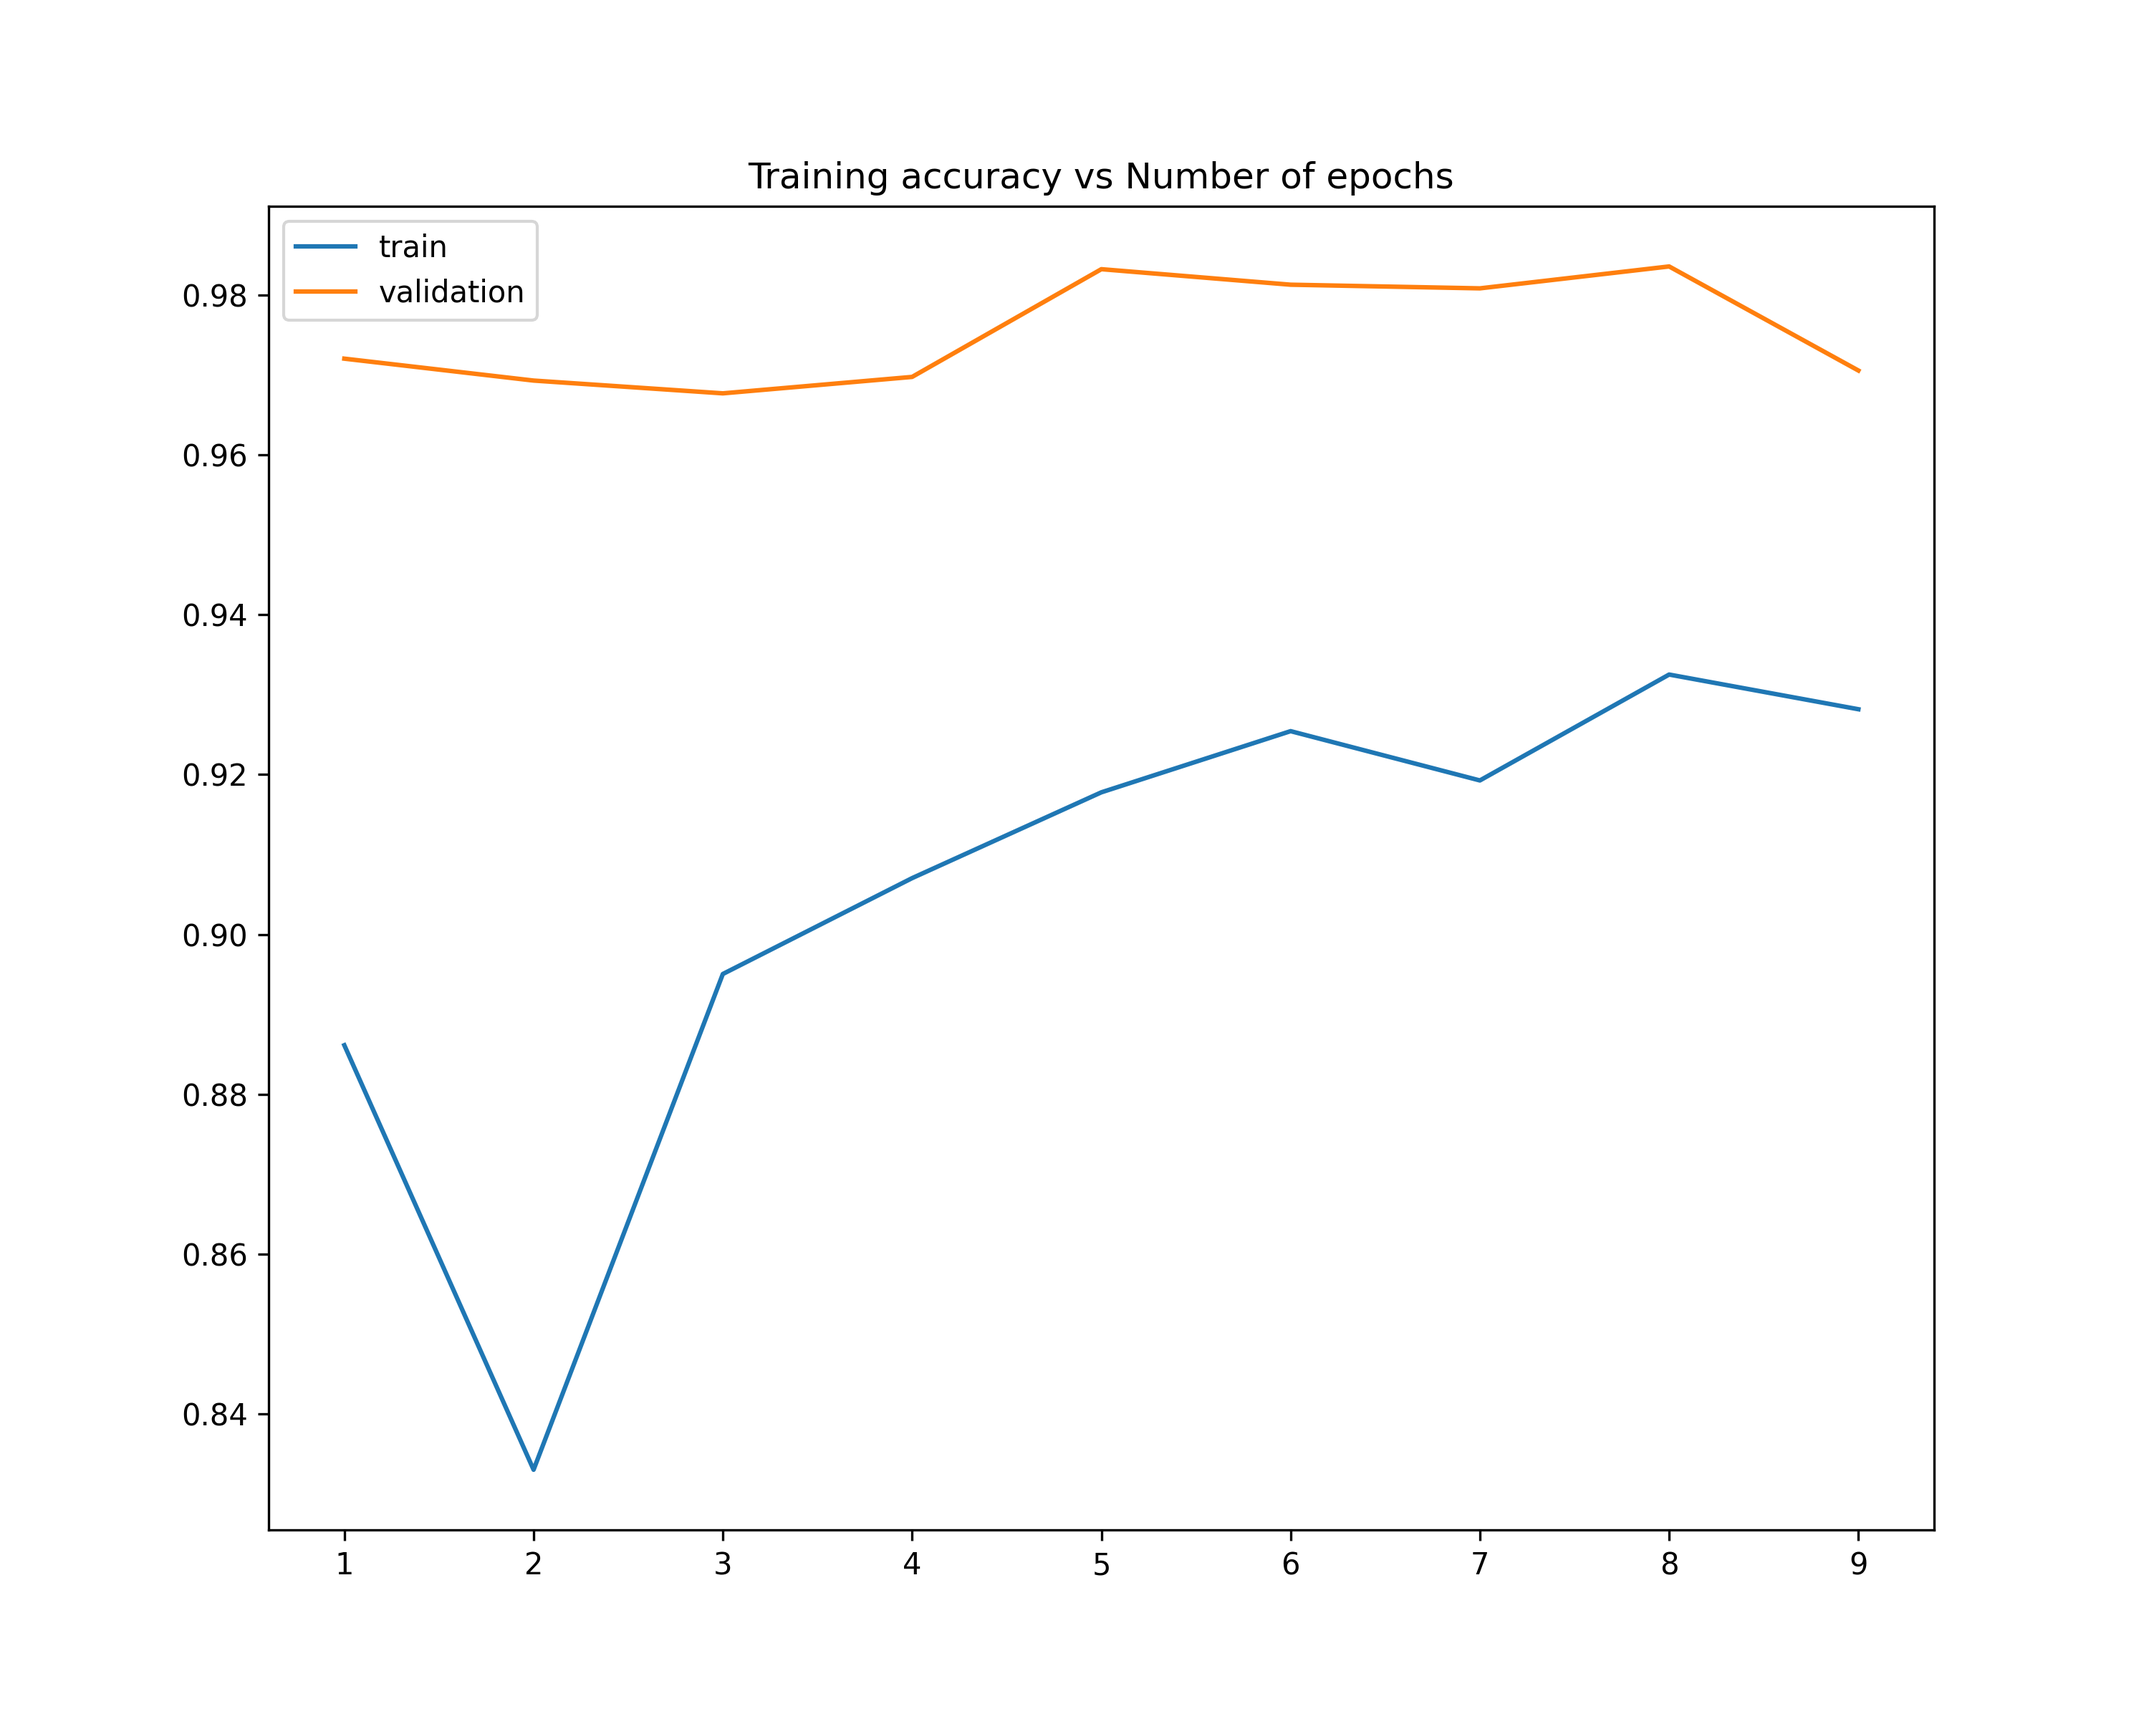
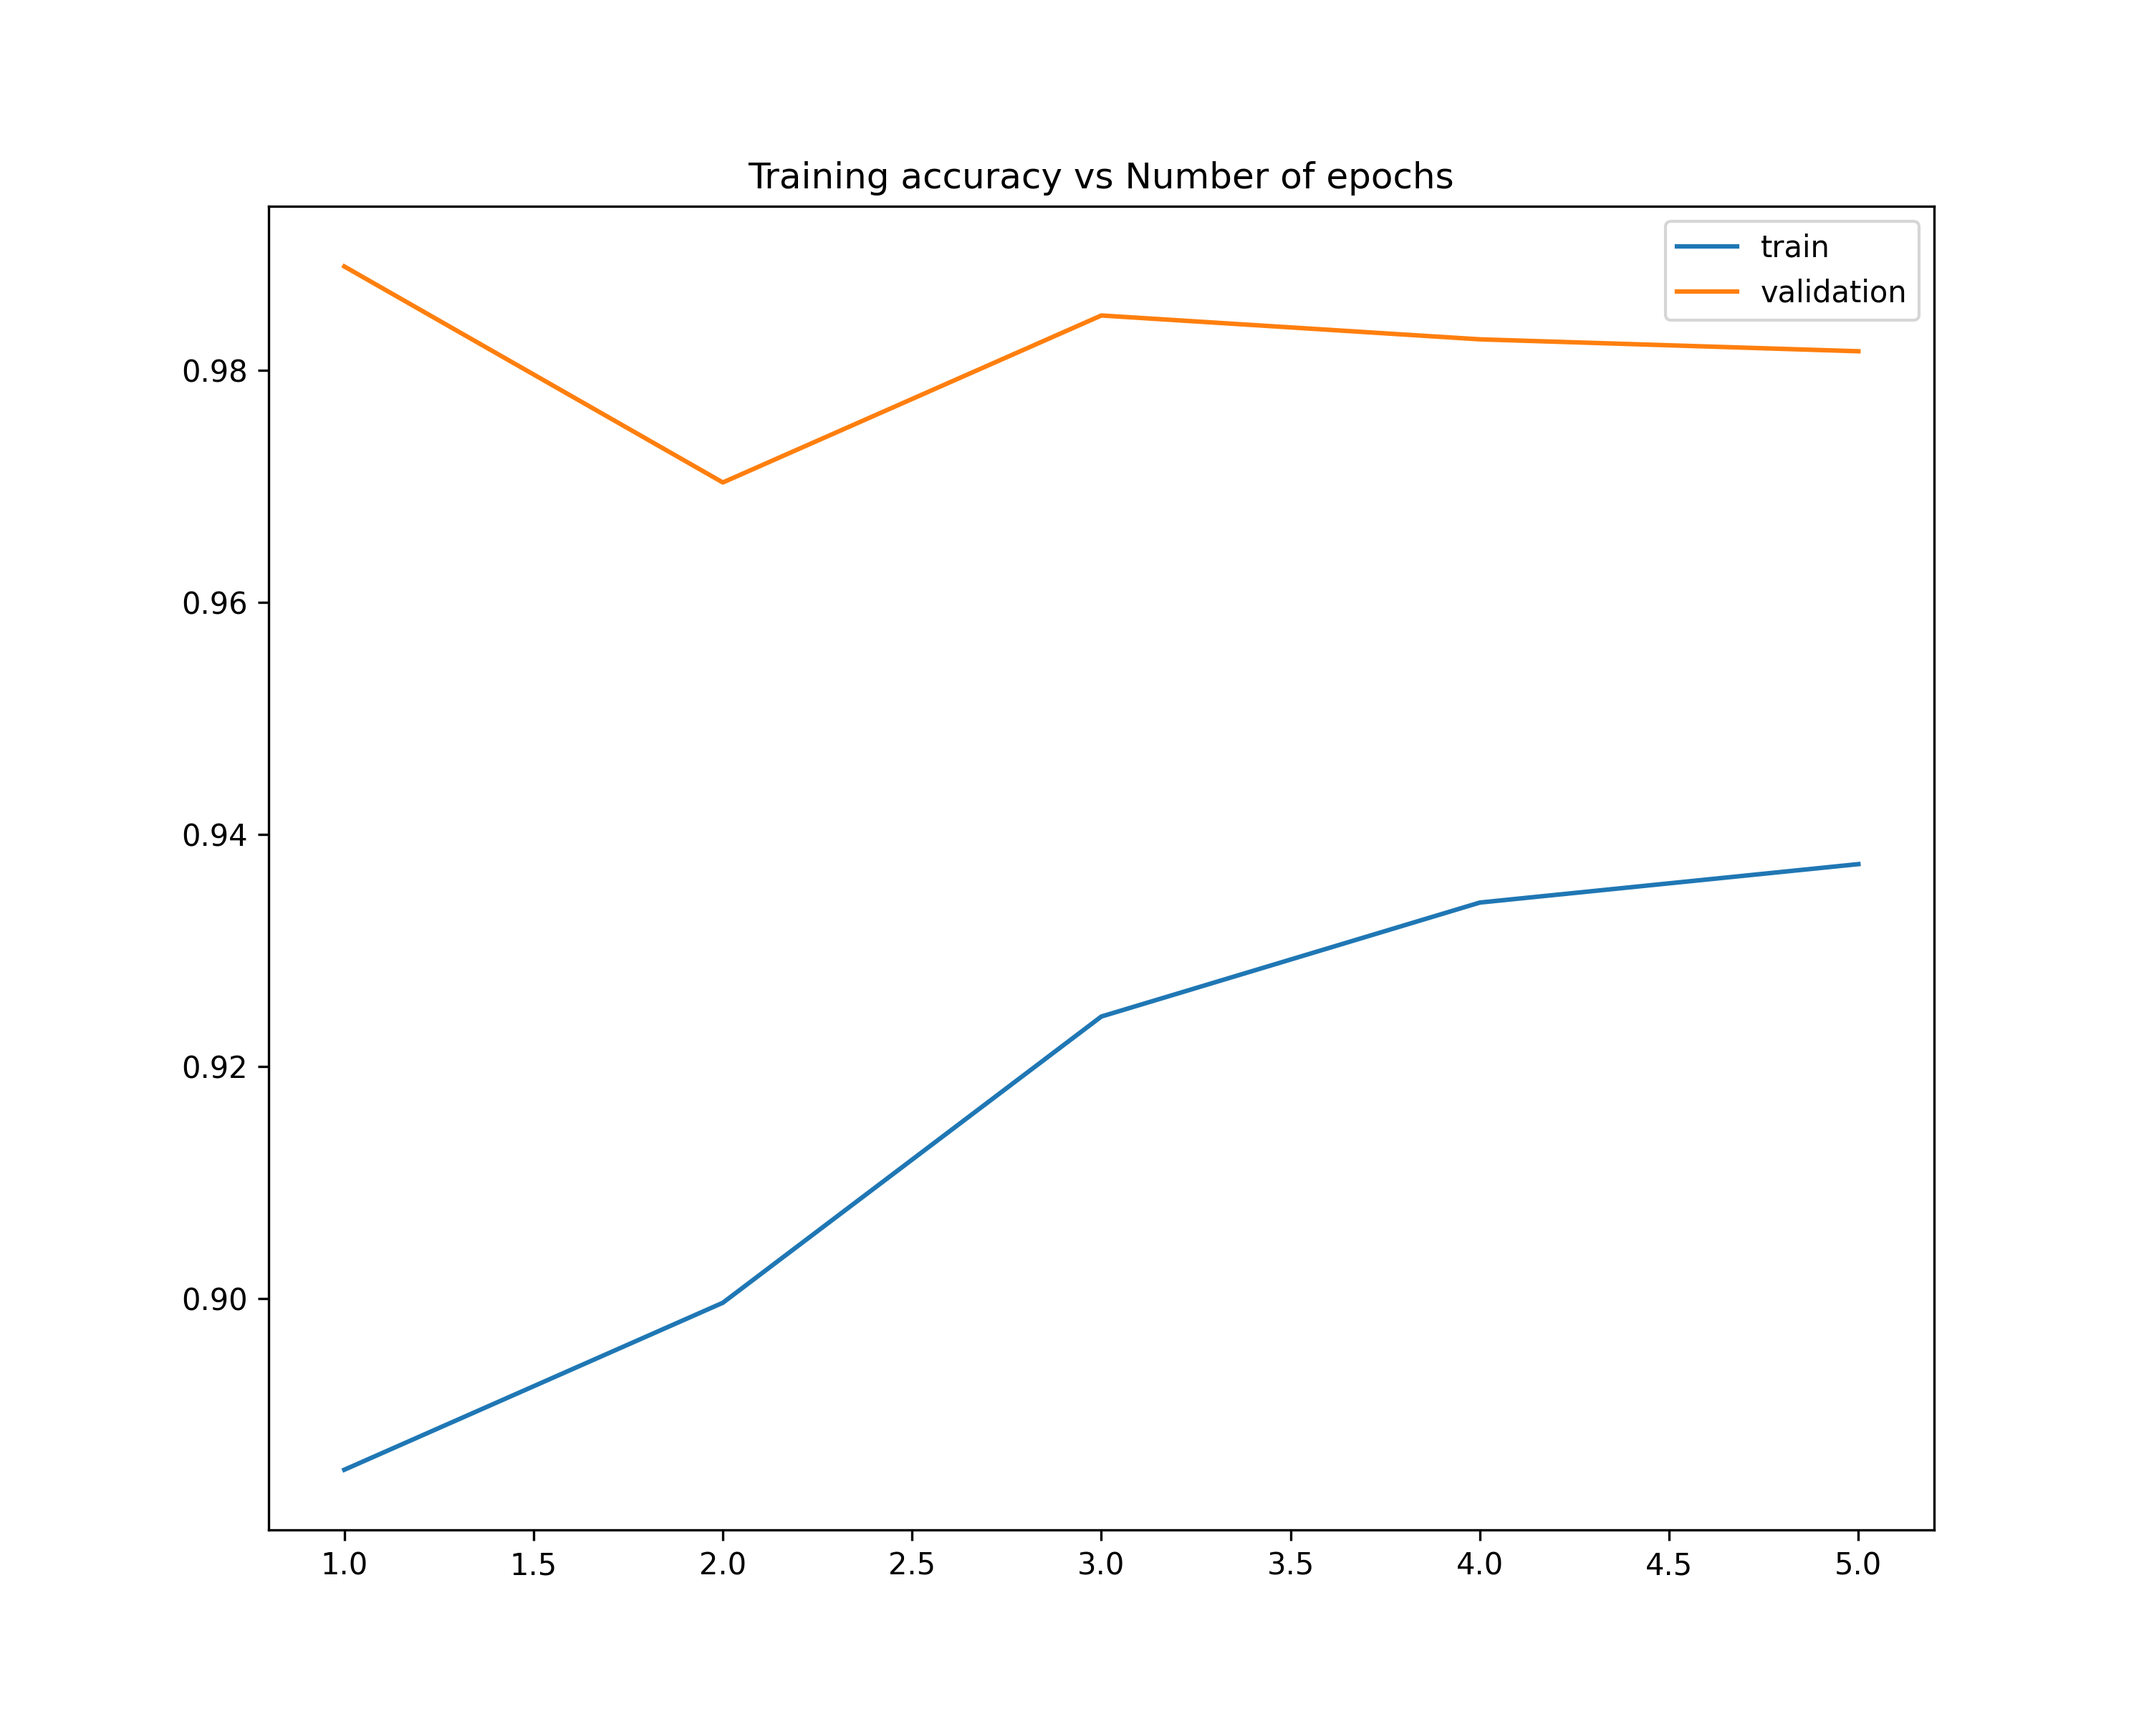
Made tanh

diff --git a/Assignment_2/test.py b/Assignment_2/test.py
@@ -9,7 +9,7 @@ from torch.utils.data import TensorDataset, DataLoader
 import torchvision.transforms as transforms
 from models import GoogLeNet_transfer,VGG_transfer,CNN
 
-input_size = 256
+input_size = 224
 device = torch.device("cuda" if torch.cuda.is_available() else "cpu")
 
 classes = ['cavallo', 'farfalla', 'elefante', 'gatto', 'gallina']
@@ -25,7 +25,6 @@ for i in classes:
     image_files.extend(glob.glob('data/resized_animal_10/' + i + '/*'))
     labels.extend([class_mapping[i]] *
                   len(glob.glob('data/resized_animal_10/' + i + '/*')))
-
 
 images_train, images_val, labels_train, labels_val = train_test_split(
     image_files, labels, train_size=0.8, stratify=labels)
@@ -54,15 +53,16 @@ test_animal_dataset = AnimalDataset(
     images_train, labels_train, transforms=data_transforms["val"])
 
 hidden_dim_1 = [2048]  
-hidden_dim_2 = [4096]
+hidden_dim_2 = [512]
 batch_sizes = [64]
-lrs = [3e-3]
+lrs = [3e-4]
 
 delta_loss = []
 ada_delta_loss = []
 adam_loss = []
 
 model_type="googlenet"
+
 for BATCH_SIZE in batch_sizes:
     for hid_dim1 in hidden_dim_1:
         for hid_dim2 in hidden_dim_2:
@@ -75,22 +75,13 @@ for BATCH_SIZE in batch_sizes:
 
 
 
-                model = CNN(5,64).to(device)
-                #model = GoogLeNet_transfer(5,hid_dim1,hid_dim2).to(device)
+                #model = CNN(5,32).to(device)
+                model = GoogLeNet_transfer(5,hid_dim1,hid_dim2).to(device)
+                #model = VGG_transfer(5,hid_dim1,hid_dim2).to(device)
                 optimizer = optim.Adam(model.parameters(), lr=lr)
 
                 loss_adam,acc_adam,epoch_adam = train_model(optimizer,criterion,model,train_dataloader,test_dataloader,MAX_EPOCHS=50,device=device,save_name=model_type)
 
-                try:
-                    print("\n \n Rule Adam",BATCH_SIZE,hid_dim1,hid_dim2,lr,loss_adam["val"][-1],acc_adam["val"][-1],len(acc_adam["val"]))
-                except:
-                    pass
-                
-                #plot_comparative(loss_delta,loss_ada_delta,loss_adam,epochs,lr,"train",loss_or_accuracy="loss")
-                #plot_comparative(loss_delta,loss_ada_delta,loss_adam,epochs,lr,"val",loss_or_accuracy="loss")
-    
-                # plot_confusion_matrix(lr,"model_delta","train")
-                # plot_confusion_matrix(lr,"model_ada_delta","train")
                 plot_confusion_matrix(lr,model_type,"train",train_dataloader,device,classes)
                 plot_confusion_matrix(lr,model_type,"test",test_dataloader,device,classes)
 
@@ -98,4 +89,10 @@ for BATCH_SIZE in batch_sizes:
                 plot_comparative(loss_adam,"loss",model_type)
                 plot_comparative(acc_adam,"accuracy",model_type)
 
-                plot_misclassified_examples("CNN",test_dataloader,device,classes)
+                #plot_misclassified_examples("CNN",test_dataloader,device,classes)
+
+                try:
+                    print("\n \n Rule Adam",BATCH_SIZE,hid_dim1,hid_dim2,lr,loss_adam["val"][-1],acc_adam["val"][-1],len(acc_adam["val"]))
+                except:
+                    pass
+                

diff --git a/Assignment_2/models.py b/Assignment_2/models.py
@@ -11,10 +11,10 @@ class MLFFNN(nn.Module):
         torch.manual_seed(3)
         # adding linear and non-linear hidden layers
         self.mlffnn = nn.Sequential(nn.Linear(INPUT_DIM, hidden_dim1),
-                                       nn.ReLU(),
+                                       nn.Tanh(),
                                        nn.Dropout(p=0.5),
                                        nn.Linear(hidden_dim1, hidden_dim2),
-                                       nn.ReLU(),
+                                       nn.Tanh(),
                                        nn.Dropout(p=0.5),
                                        nn.Linear(hidden_dim2, NUM_CLASSES))
         
@@ -32,24 +32,24 @@ class CNN(nn.Module):
         torch.manual_seed(3)
         self.conv1 = nn.Conv2d(in_channels=3, out_channels=4,
             kernel_size=(3, 3),stride=1)
-        self.relu1 = nn.ReLU()
+        self.tanh1 = nn.Tanh()
         self.meanpool1 = nn.AvgPool2d(kernel_size=(2, 2), stride=2)
         
         self.conv2 = nn.Conv2d(in_channels=4, out_channels=out_channels_2,
             kernel_size=(3, 3),stride=1)
-        self.relu2 = nn.ReLU()
+        self.tanh2 = nn.Tanh()
         self.meanpool2 = nn.AvgPool2d(kernel_size=(2, 2), stride=(2, 2))
-        # initialize first (and only) set of FC => RELU layers
+        # initialize first (and only) set of FC => tanh layers
         self.fc1 = nn.Linear(in_features=62*62*out_channels_2, out_features=num_classes)
         # initialize our softmax classifier
         
     def forward(self, X):
         x = self.conv1(X)
-        x = self.relu1(x)
+        x = self.tanh1(x)
         x = self.meanpool1(x)
 
         x = self.conv2(x)
-        x = self.relu2(x)
+        x = self.tanh2(x)
         x = self.meanpool2(x)
         
         x = torch.flatten(x,1)
@@ -66,9 +66,9 @@ class VGG_transfer(nn.Module):
         torch.manual_seed(3)
         # adding linear and non-linear hidden layers
         self.vgg16 = models.vgg16(pretrained=True)
-        self.vgg16.eval()
         modules=list(self.vgg16.children())[:-1]
         self.vgg16_base=nn.Sequential(*modules)
+        self.vgg16_base.eval()
         self.mlffn = MLFFNN(25088,NUM_CLASSES,hidden_dim1=hidden_dim1,hidden_dim2=hidden_dim2)
     
     def forward(self, X):
@@ -88,9 +88,9 @@ class GoogLeNet_transfer(nn.Module):
         torch.manual_seed(3)
         # adding linear and non-linear hidden layers
         self.googlenet = models.googlenet(pretrained=True)
-        self.googlenet.eval()
         modules=list(self.googlenet.children())[:-1]
         self.googlenet=nn.Sequential(*modules)
+        self.googlenet.eval()
         self.mlffn = MLFFNN(1024,NUM_CLASSES,hidden_dim1,hidden_dim2)
     
     def forward(self, X):

diff --git a/Assignment_2/task4.py b/Assignment_2/task4.py
@@ -10,7 +10,7 @@ from utils import *
 from models import CNN
 import csv
 
-input_size = 256
+input_size = 224
 device = torch.device("cuda" if torch.cuda.is_available() else "cpu")
 
 classes = ['cavallo', 'farfalla', 'elefante', 'gatto', 'gallina']
@@ -69,10 +69,11 @@ adam_loss = []
 f = open("validation_results_task4.csv", "w")
 csvwriter = csv.writer(f)
 
+count = 0
 for feat in feats:
     for BATCH_SIZE in batch_sizes:
         for lr in lrs:
-
+            model_type =f"CNN{count}"
             train_dataloader = DataLoader(train_animal_dataset, batch_size=BATCH_SIZE,
                             pin_memory=True, shuffle=True,num_workers=10)
 
@@ -84,14 +85,21 @@ for feat in feats:
             
             optimizer = optim.Adam(model.parameters(), lr=lr)
 
-            loss_adam,acc_adam,epoch_adam = train_model(optimizer,criterion,model,train_dataloader,test_dataloader,MAX_EPOCHS=50,device=device,save_name="CNN")
+            loss_adam,acc_adam,epoch_adam = train_model(optimizer,criterion,model,train_dataloader,test_dataloader,MAX_EPOCHS=50,device=device,save_name=model_type)
 
             try:
                 print("\n \n Rule Adam",lr,loss_adam["val"][-1],acc_adam["val"][-1],len(acc_adam["val"]))
                 csvwriter.writerow(["\n \n Rule Adam",BATCH_SIZE,feats,lr,loss_adam["val"][-1],acc_adam["val"][-1],len(acc_adam["val"])])
             except:
-                pass
-        
+                continue
+                
+            plot_confusion_matrix(lr,model_type,"train",train_dataloader,device,classes)
+            plot_confusion_matrix(lr,model_type,"test",test_dataloader,device,classes)
+
+                
+            plot_comparative(loss_adam,"loss",model_type)
+            plot_comparative(acc_adam,"accuracy",model_type)
+            count +=1
             # plot_comparative(loss_delta,loss_ada_delta,loss_adam,epochs,lr,"train",loss_or_accuracy="loss")
             # plot_comparative(loss_delta,loss_ada_delta,loss_adam,epochs,lr,"val",loss_or_accuracy="loss")
             
